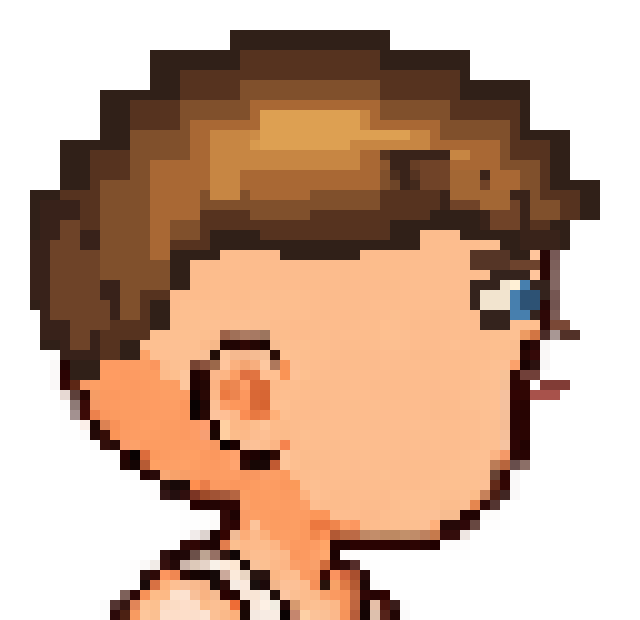
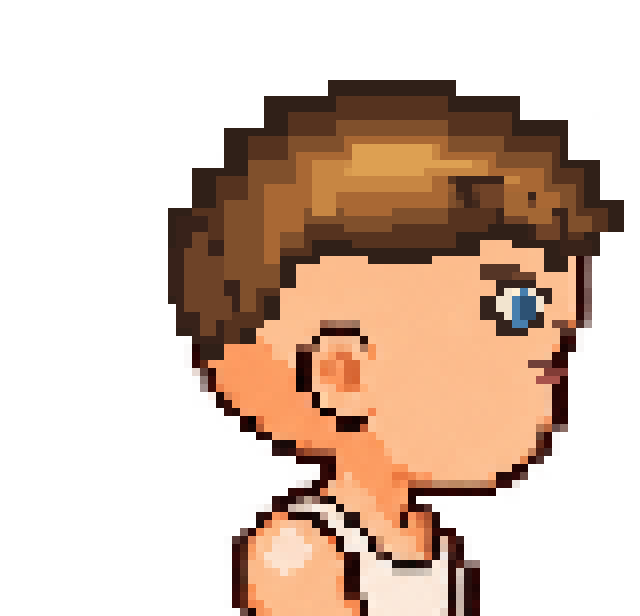
Improve build33 face readability, grounding and battle framing

diff --git a/Sources/Game/MeadowBattlePreviewView.swift b/Sources/Game/MeadowBattlePreviewView.swift
@@ -1,4 +1,5 @@
 import UIKit
+import CoreImage
 
 private enum MeadowPreviewPalette {
     static let panel = UIColor(red: 0.10, green: 0.17, blue: 0.13, alpha: 0.97)
@@ -278,11 +279,11 @@ struct MeadowBattleCanvasGeometry {
     static let enemyVisibleHeight: CGFloat = 0.33
 
     static func fittedCanvas(in bounds: CGRect) -> CGRect {
-        // One camera transform for every plate, actor and contact. Cover the
-        // viewport as the footer opens/closes; clip only the outer scene edges.
-        let scale = max(bounds.width / sourceCanvas.width, bounds.height / sourceCanvas.height)
+        // The battle card gets taller on monster turns. Fit the world to its
+        // stable width so actor scale and camera zoom do not jump with height.
+        let scale = bounds.width / sourceCanvas.width
         let size = CGSize(width: sourceCanvas.width * scale, height: sourceCanvas.height * scale)
-        return CGRect(x: bounds.midX - size.width / 2, y: bounds.midY - size.height / 2,
+        return CGRect(x: bounds.midX - size.width / 2, y: bounds.minY,
                       width: size.width, height: size.height)
     }
 
@@ -306,6 +307,7 @@ struct MeadowBattleCanvasGeometry {
 
 final class MeadowBattleLandscapeView: UIView {
     private let canvas = UIView()
+    private let cameraBackdrop = UIImageView()
     private let farForest = UIImageView(image: MeadowBattlePlateProcessor.image(named: "MeadowCampFarForest", role: .farForest))
     private let ground = UIImageView(image: MeadowBattlePlateProcessor.image(named: "MeadowCampGround", role: .ground))
     private let midground = UIImageView(image: MeadowBattlePlateProcessor.image(named: "MeadowCampMidground", role: .midground))
@@ -346,6 +348,13 @@ final class MeadowBattleLandscapeView: UIView {
         layer.borderWidth = 1
         layer.borderColor = UIColor(red: 0.91, green: 0.81, blue: 0.58, alpha: 0.7).cgColor
 
+        cameraBackdrop.image = Self.makeCameraBackdrop()
+        cameraBackdrop.contentMode = .scaleAspectFill
+        cameraBackdrop.clipsToBounds = true
+        cameraBackdrop.alpha = 0.82
+        cameraBackdrop.accessibilityIdentifier = "meadowBattleCameraBackdrop"
+        addSubview(cameraBackdrop)
+
         canvas.clipsToBounds = true
         canvas.accessibilityIdentifier = "meadowBattleSceneCanvas"
         addSubview(canvas)
@@ -380,6 +389,34 @@ final class MeadowBattleLandscapeView: UIView {
 
     required init?(coder: NSCoder) { fatalError("init(coder:) has not been implemented") }
 
+    /// Softly fills the extra vertical area exposed by the taller monster-turn
+    /// viewport while the sharp registered scene keeps its stable world scale.
+    private static func makeCameraBackdrop() -> UIImage? {
+        let size = MeadowBattleCanvasGeometry.sourceCanvas
+        let format = UIGraphicsImageRendererFormat(); format.scale = 1
+        let renderer = UIGraphicsImageRenderer(size: size, format: format)
+        let plate = renderer.image { _ in
+            let rect = CGRect(origin: .zero, size: size)
+            for name in MeadowBattleCanvasGeometry.sceneLayerOrder {
+                UIImage(named: name)?.draw(in: rect)
+            }
+        }
+        guard let cgImage = plate.cgImage else { return plate }
+        let input = CIImage(cgImage: cgImage)
+        let blur = CIFilter(name: "CIGaussianBlur")
+        blur?.setValue(input.clampedToExtent(), forKey: kCIInputImageKey)
+        blur?.setValue(18, forKey: kCIInputRadiusKey)
+        let controls = CIFilter(name: "CIColorControls")
+        controls?.setValue(blur?.outputImage?.cropped(to: input.extent), forKey: kCIInputImageKey)
+        controls?.setValue(0.75, forKey: kCIInputSaturationKey)
+        controls?.setValue(0.92, forKey: kCIInputContrastKey)
+        guard let output = controls?.outputImage?.cropped(to: input.extent),
+              let result = CIContext(options: [.useSoftwareRenderer: false]).createCGImage(output, from: input.extent) else {
+            return plate
+        }
+        return UIImage(cgImage: result, scale: 1, orientation: .up)
+    }
+
     private func configureShadow(_ shadow: UIView, identifier: String) {
         shadow.accessibilityIdentifier = identifier
         shadow.isUserInteractionEnabled = false
@@ -389,6 +426,7 @@ final class MeadowBattleLandscapeView: UIView {
         super.layoutSubviews()
         guard bounds.width > 0, bounds.height > 0 else { return }
         let fitted = MeadowBattleCanvasGeometry.fittedCanvas(in: bounds)
+        cameraBackdrop.frame = bounds
         canvas.frame = fitted
         let canvasBounds = canvas.bounds
         sceneLayers.forEach { $0.frame = canvasBounds }

diff --git a/Sources/Game/MeadowBattleActorView.swift b/Sources/Game/MeadowBattleActorView.swift
@@ -73,7 +73,10 @@ final class MeadowBattleGroundingView: UIView {
     private let contacts: [Contact]
 
     init(image: UIImage?, soleY: CGFloat, contacts: [Contact]) {
-        source = image?.withTintColor(UIColor(red: 0.07, green: 0.10, blue: 0.07, alpha: 0.16), renderingMode: .alwaysOriginal)
+        // The original 0.16 tint disappeared against the bright, detailed
+        // ground in actual iPad captures. Keep the cast restrained, but dark
+        // enough to read at the 1x battle-scene scale.
+        source = image?.withTintColor(UIColor(red: 0.035, green: 0.045, blue: 0.025, alpha: 0.34), renderingMode: .alwaysOriginal)
         self.soleY = soleY
         self.contacts = contacts
         super.init(frame: .zero)
@@ -93,16 +96,16 @@ final class MeadowBattleGroundingView: UIView {
         context.concatenate(CGAffineTransform(a: 1, b: 0, c: -0.38, d: -0.15,
                                               tx: soleY * 0.38, ty: soleY * 1.15))
         context.interpolationQuality = .high
-        context.setShadow(offset: .zero, blur: 2, color: UIColor.black.withAlphaComponent(0.10).cgColor)
+        context.setShadow(offset: .zero, blur: 3.5, color: UIColor.black.withAlphaComponent(0.18).cgColor)
         source.draw(at: .zero)
         context.restoreGState()
-        let colors = [UIColor(red: 0.05, green: 0.08, blue: 0.04, alpha: 0.42).cgColor,
+        let colors = [UIColor(red: 0.025, green: 0.035, blue: 0.018, alpha: 0.68).cgColor,
                       UIColor.black.withAlphaComponent(0).cgColor] as CFArray
         if let gradient = CGGradient(colorsSpace: CGColorSpaceCreateDeviceRGB(), colors: colors, locations: [0, 1]) {
             for contact in contacts {
                 context.saveGState()
                 context.translateBy(x: contact.point.x, y: contact.point.y)
-                context.scaleBy(x: 1, y: 0.25)
+                context.scaleBy(x: 1, y: 0.38)
                 context.drawRadialGradient(gradient, startCenter: .zero, startRadius: 0,
                                            endCenter: .zero, endRadius: contact.radius, options: [])
                 context.restoreGState()

diff --git a/docs/P1_CHARACTER_REVIEW.md b/docs/P1_CHARACTER_REVIEW.md
@@ -6,6 +6,8 @@
 
 2026-10-20 新增 [build33 侧向待机运行候选](../Art/Parts/P1-Battle/right-idle-v1/README.md)：沿用已认可r2完整人体，独立叠放绿色衣物／棕色短发／蓝眼五官／短剑，脚底和画布固定。已通过局部自审与iPad专项验证，三态实图见[build33运行证据](../Media/Build33/README.md)；新部件和装配尚无用户美术认可。它只有一张静态待机，不代表下文的隐藏解剖、侧步态、完整换装或动作动画问题已完成。
 
+本次回审聚焦 face-blue v3：眼睛、眉、鼻和闭口向脸内收，避免贴在侧脸轮廓上；256×256注册和已认可r2身体、头发不变。请查看[更新后组合图](../Art/Parts/P1-Battle/right-idle-v1/review-face-v3.png)与[头部放大](../Art/Parts/P1-Battle/right-idle-v1/face-blue/review-head-detail.png)。这是素材重组预览，不是新的运行截图；v3仍待用户美术审核，尚未扩大为其他方向或动画。
+
 侧视待机向右中性人体 [r2](../Art/Templates/P1-Neutral/battle-side/right-idle-r2/README.md) 已获认可。用户回复“对了，继续下一步”，认可范围为单张注册后的空手侧视姿态和近侧右手方向。v1 八层静态分割仍作为历史候选保存；隐藏人体底层 [v2](../Art/Templates/P1-Neutral/battle-side/right-idle-parts-v2/README.md) 在原八层之下新增连续颈肩至骨盆皮肤核心。保持256×256共同注册，静态review与v1逐像素一致；新层暂未并入静态合成，因为现有抗锯齿切层边缘会让底层透出并改变外观。442个固定站姿补位像素仍保留；完整四肢底层与肢体移动接缝尚未通过，不能作为生产换装底模。
 
 当前回审焦点为[右向侧步态单帧测试 v1](../Art/Templates/P1-Neutral/battle-side/right-walk-pose-test-v1/README.md)：在256×256注册画布上制作一张小步候选并拆成八个语义层；静态重组逐像素一致，局部underlay新增14个皮肤像素，四个关节根部±1 px诊断均未露底。可查看[单帧对照](../Art/Templates/P1-Neutral/battle-side/right-walk-pose-test-v1/review.png)、[手脚细节](../Art/Templates/P1-Neutral/battle-side/right-walk-pose-test-v1/details.png)、[图层预览](../Art/Templates/P1-Neutral/battle-side/right-walk-pose-test-v1/parts-review.png)和[位移诊断](../Art/Templates/P1-Neutral/battle-side/right-walk-pose-test-v1/movement-test.png)。这只证明单帧轮廓、静态分层及一像素局部覆盖；姿势未获美术认可，完整隐藏解剖、较大幅度关节动作、动画、服装遮挡与运行时均未通过或未制作。认可的r2及其他已认可内容不由本项自动改变。

diff --git a/Art/Parts/P1-Battle/right-idle-v1/README.md b/Art/Parts/P1-Battle/right-idle-v1/README.md
@@ -2,6 +2,8 @@
 
 The approved neutral `right-idle-r2/00.png` is unchanged. This static fixture adds separate chestnut hair, blue facial features, forester clothing, and a short sword. All images use the same 256×256 canvas; the anatomical foot anchor is fixed at `(123,214)` and the reference body height is 132 px. No appearance is automatically fitted from its alpha bounds. Near and far hand layers come from the static semantic split and remain in front of the outfit and grip. `hand-foreground/` excludes a rear-leg patch incorrectly owned by the redundant far-hand copy; the complete approved body underneath is unchanged.
 
+The face layer is now at [candidate v3](face-blue/README.md), with its eye and profile features moved inward after the build33 runtime preview made them hard to read. The [face review](review-face-v3.png) is a registered asset recomposition, not an iPad capture; native runtime readability still needs screenshot review.
+
 The app reads `MeadowBattleHeroConfiguration.dataset/configuration.json` and stacks the named images in order. Adding an appearance does not introduce a conditional branch or replace the neutral body. `runtime-sources.json` selects source PNGs and `runtime-configuration.json` defines the pose and display order. `import-runtime.py` copies those authored PNGs unchanged and records hashes; adding assets needs image/manifest changes only, without importer or engine branches. Each part directory retains editable art or generated original, registration notes and limitations.
 
 These new layers are **unapproved single-pose candidates**. The user's approval of the r2 neutral pose and hand direction does not approve the clothes, head parts, weapon grip or composite. There are no corresponding attack, hurt, walking or opposite-facing frames. A second outfit, a third resource and a full combination test are still needed before claiming reusable production wardrobe compatibility; hidden anatomy and moving joints also remain incomplete.

diff --git a/Art/Parts/P1-Battle/right-idle-v1/face-blue/README.md b/Art/Parts/P1-Battle/right-idle-v1/face-blue/README.md
@@ -1,5 +1,5 @@
-# Blue eye and right-facing features · battle idle candidate v2
+# Blue eye and right-facing features · battle idle candidate v3
 
-This revision moves the visible blue eye to the right side of the face near `(148, 109)`, with the brow above it and the nose mark and mouth facing right. `face.svg` is the editable integer-pixel source and `face.png` is the transparent 256×256 feature-only export. It contains no skin, ear, or hair pixels.
+This revision moves the eye, brow, nose and mouth several pixels inward from the profile edge, strengthens the blue eye against the skin, and keeps the mouth closed. `face.svg` is the editable integer-pixel source and `face.png` is the transparent 256×256 feature-only export. It contains no skin, ear, or hair pixels.
 
-The exact alpha bounding box is `[145, 104, 156, 119]` in `(left, top, right-exclusive, bottom-exclusive)` convention. See the [r2 overlay with separate hair](review-r2-with-hair.png) and [enlarged head detail](review-head-detail.png). This is still one unapproved static candidate, with no other directions or production compatibility.
+The exact alpha bounding box is `[140, 105, 152, 120]` in `(left, top, right-exclusive, bottom-exclusive)` convention. See the [r2 overlay with separate hair](review-r2-with-hair.png) and [enlarged head detail](review-head-detail.png). This is still one unapproved static candidate, with no other directions or production compatibility.
